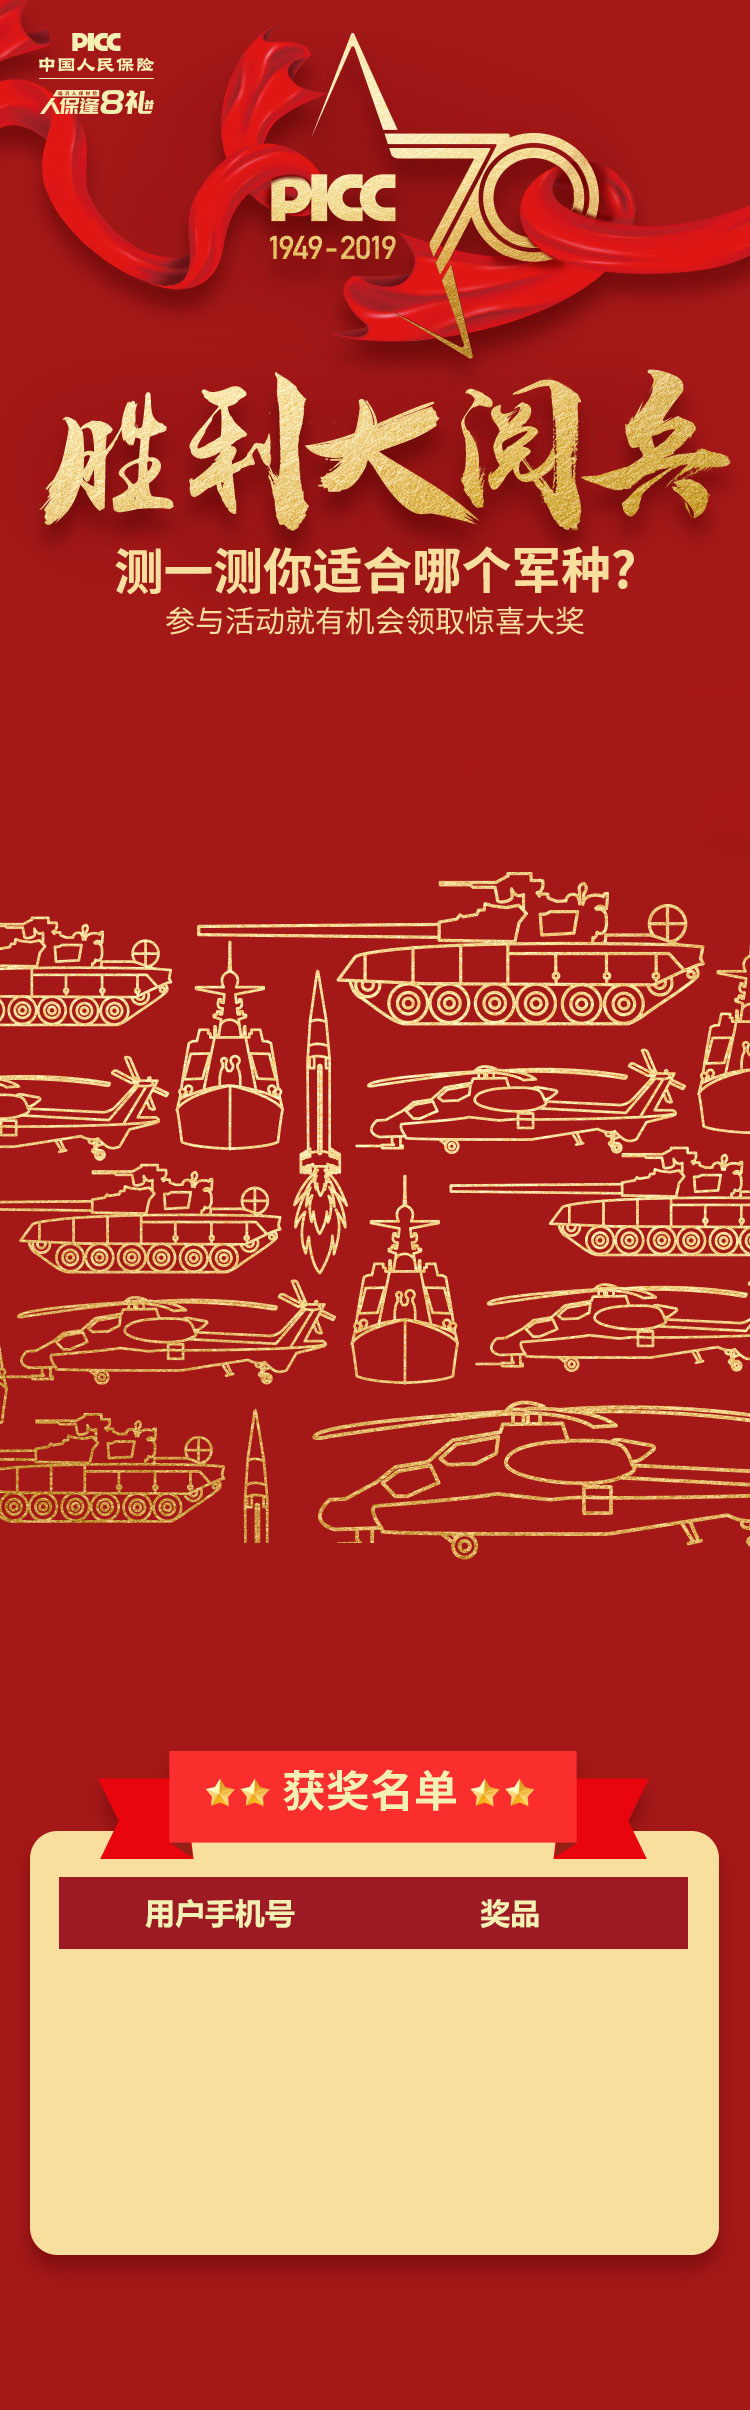
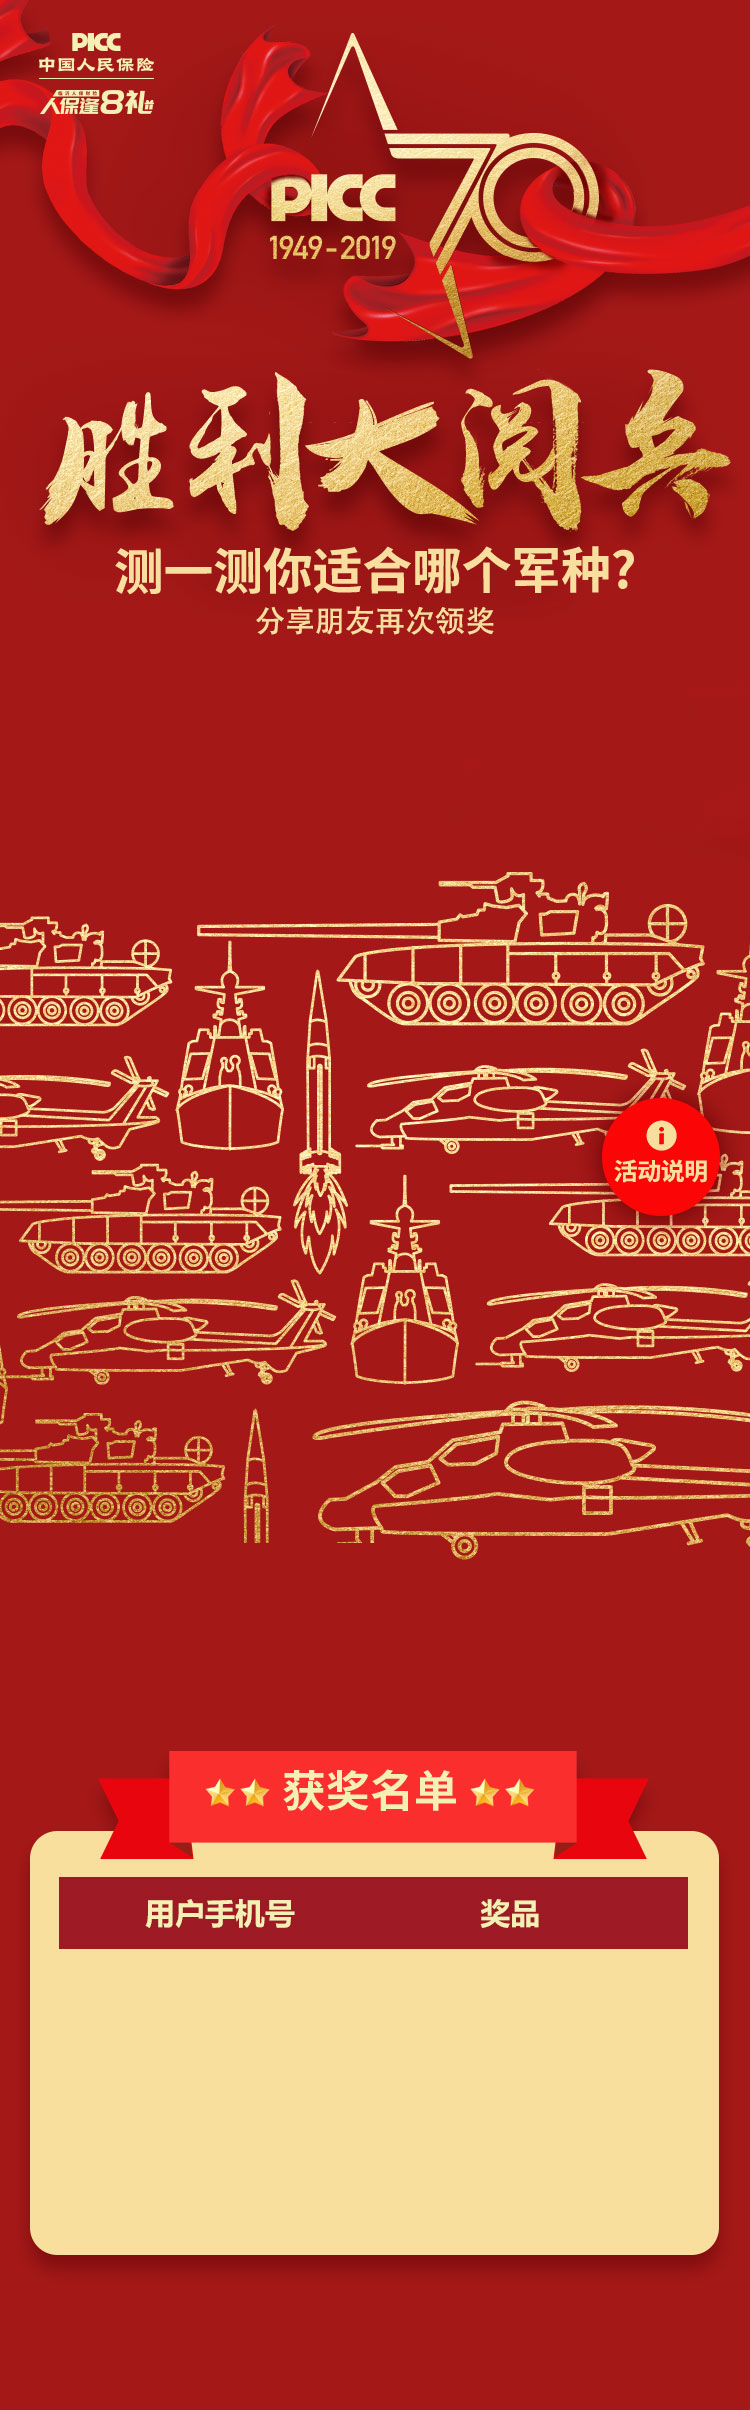
山东临沂中奖更新

Changed region(s): [[0.2147, 0.249, 0.7667, 0.2801], [0.7973, 0.4357, 0.9813, 0.529]]

diff --git a/frontend/controllers/ShandongRenbaoArmyController.php b/frontend/controllers/ShandongRenbaoArmyController.php
@@ -38,10 +38,30 @@ class ShandongRenbaoArmyController extends PController {
     }
 
     public function actionIndex(){
+        $request = Yii::$app->request;
+        $id = $request->get('id',0);
+        $group_id = $request->get('group_id',0);
+        Yii::$app->session['shandong_renbao_parent_id'] = $id;
+        Yii::$app->session['shandong_renbao_group_id']  = $group_id;
+
+        //分数清零，开始答题
+        Yii::$app->session['shandong_renbao_question_ids'] = [];
+        Yii::$app->session['shandong_renbao_scores'] = [];
+        Yii::$app->session->set('renbao_army_mobile',1);
+        Yii::$app->session->set('mobile', 1);
+
+
         $total = $this->getTotal();
-        return $this->render('index',[
-            'total'=>$total
-        ]);
+        if(time()<1568736000 || true){
+//            return 2;
+            return $this->render('index_new',[
+                'total'=>$total
+            ]);
+        }else{
+            return $this->render('index',[
+                'total'=>$total
+            ]);
+        }
     }
 
 
@@ -380,7 +400,7 @@ class ShandongRenbaoArmyController extends PController {
             $parent_count = ShandongRenbaoArmy::find()->where([
                 'parent_id'=>$parent_id
             ])->count();
-            if($parent_count>=3){
+            if($parent_count>=1){
                 //检测是否在分享里面
                 $share = ShandongRenbaoArmyShare::find()->where([
                     'army_id'=>$parent_id

diff --git a/frontend/views/shandong-renbao-army/register.php b/frontend/views/shandong-renbao-army/register.php
@@ -3,9 +3,9 @@
     <img src="/frontend/web/shandong-renbao-army/images/award-ewm.png" alt="">
 <!--    <a href="javascript:;">去个人中心查看奖品 </a>-->
     <a href="javascript:popShow('pop1');">邀朋友一起来PK </a>
-    <p class="register-p1">分享3位朋友并完成抽奖， </p><br/>
-    <p class="register-p1"> 您将获得洗车、</p><br/>
-    <p class="register-p1">鲜花或者电商兑换券其中之一<br/></p>
+    <p class="register-p1">分享朋友再次领奖，您将随机 </p><br/>
+    <p class="register-p1"> 获得电影票、单次洗车、鲜花或</p><br/>
+    <p class="register-p1">200元电商优惠券其中之一。<br/></p>
 </div>
 <!-- 弹窗 -->
 <div class="pop pop1" id="pop1">

diff --git a/frontend/views/shandong-renbao-army/prize.php b/frontend/views/shandong-renbao-army/prize.php
@@ -5,8 +5,9 @@
                 恭喜您获得<br/>
                 <?= $result['rewards'] ?>
             </span>
-        <p>分享3位朋友参加抽奖，<br/>
-            您将获得洗车、鲜花或者<br/>电商兑换券其中之一。</p>
+        <p>分享朋友再次领奖，您将随机<br/>
+            获得电影票、单次洗车、鲜花或<br/>
+            200元电商优惠券其中之一。</p>
     </div>
     <a href="prize-step.html?id=<?= $id ?>" class="prize-btn">去使用</a>
     <a href="javascript:popShow('pop1');" class="prize-btn">分享给好友</a>
